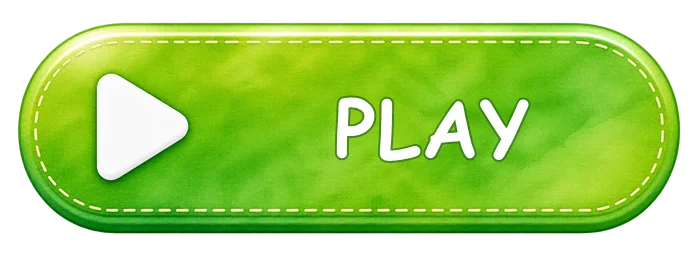
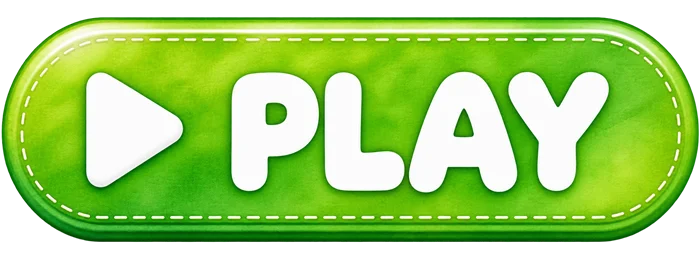
Titulos e botoes com a escrita na propria arte; nivel em cartoes; PLAY novo

diff --git a/dados.js b/dados.js
@@ -148,4 +148,4 @@ window.LISTAS = {
     {imagem: 'img/milho.webp', som: 'corn', palavra: 'corn'},
   ],
 };
-window.IMAGENS = {'abacate': 'img/abacate.webp', 'abacaxi': 'img/abacaxi.webp', 'abelha': 'img/abelha.webp', 'alaranjado': 'img/alaranjado.webp', 'alfabeto': 'img/alfabeto.webp', 'alimentos': 'img/alimentos.webp', 'amarelo': 'img/amarelo.webp', 'animais': 'img/animais.webp', 'aranha': 'img/aranha.webp', 'arroz': 'img/arroz.webp', 'azul': 'img/azul.webp', 'back': 'img/back.webp', 'banana': 'img/banana.webp', 'biscoito': 'img/biscoito.webp', 'boca': 'img/boca.webp', 'bolo': 'img/bolo.webp', 'borboleta': 'img/borboleta.webp', 'braco': 'img/braco.webp', 'branco': 'img/branco.webp', 'cachorro': 'img/cachorro.webp', 'cavalo': 'img/cavalo.webp', 'cenoura': 'img/cenoura.webp', 'cereja': 'img/cereja.webp', 'cinco': 'img/cinco.webp', 'cinza': 'img/cinza.webp', 'circulo': 'img/circulo.webp', 'cobra': 'img/cobra.webp', 'coco': 'img/coco.webp', 'coracao': 'img/coracao.webp', 'cores': 'img/cores.webp', 'corpo': 'img/corpo.webp', 'coruja': 'img/coruja.webp', 'dedo': 'img/dedo.webp', 'dente': 'img/dente.webp', 'desoito': 'img/desoito.webp', 'dez': 'img/dez.webp', 'dezenove': 'img/dezenove.webp', 'dezesete': 'img/dezesete.webp', 'dezesseis': 'img/dezesseis.webp', 'dois': 'img/dois.webp', 'doze': 'img/doze.webp', 'elefante': 'img/elefante.webp', 'engrenagem': 'img/engrenagem.webp', 'estrela': 'img/estrela.webp', 'estrela_placar': 'img/estrela_placar.webp', 'estrela_vazia': 'img/estrela_vazia.webp', 'fechar': 'img/fechar.webp', 'food': 'img/food.webp', 'formas': 'img/formas.webp', 'fundo': 'img/fundo.webp', 'fundo_inicio': 'img/fundo_inicio.webp', 'fundoanimal': 'img/fundoanimal.webp', 'fundocores': 'img/fundocores.webp', 'fundofood': 'img/fundofood.webp', 'fundoformas': 'img/fundoformas.webp', 'fundoletras': 'img/fundoletras.webp', 'fundonumero': 'img/fundonumero.webp', 'fundos_floresta': 'img/fundos_floresta.webp', 'galinha': 'img/galinha.webp', 'gato': 'img/gato.webp', 'girafa': 'img/girafa.webp', 'golfinho': 'img/golfinho.webp', 'grilo': 'img/grilo.webp', 'hamburguer': 'img/hamburguer.webp', 'hexagono': 'img/hexagono.webp', 'hipopotamo': 'img/hipopotamo.webp', 'icone_jogador': 'img/icone_jogador.webp', 'kiwi': 'img/kiwi.webp', 'laranja': 'img/laranja.webp', 'leao': 'img/leao.webp', 'letra_a': 'img/letra_a.webp', 'letra_b': 'img/letra_b.webp', 'letra_c': 'img/letra_c.webp', 'letra_d': 'img/letra_d.webp', 'letra_e': 'img/letra_e.webp', 'letra_f': 'img/letra_f.webp', 'letra_g': 'img/letra_g.webp', 'letra_h': 'img/letra_h.webp', 'letra_i': 'img/letra_i.webp', 'letra_j': 'img/letra_j.webp', 'letra_k': 'img/letra_k.webp', 'letra_l': 'img/letra_l.webp', 'letra_m': 'img/letra_m.webp', 'letra_n': 'img/letra_n.webp', 'letra_o': 'img/letra_o.webp', 'letra_p': 'img/letra_p.webp', 'letra_q': 'img/letra_q.webp', 'letra_r': 'img/letra_r.webp', 'letra_s': 'img/letra_s.webp', 'letra_t': 'img/letra_t.webp', 'letra_u': 'img/letra_u.webp', 'letra_v_': 'img/letra_v_.webp', 'letra_w': 'img/letra_w.webp', 'letra_x': 'img/letra_x.webp', 'letra_y': 'img/letra_y.webp', 'letra_z': 'img/letra_z.webp', 'limao': 'img/limao.webp', 'logo': 'img/logo.webp', 'losango': 'img/losango.webp', 'maca': 'img/maca.webp', 'macaco': 'img/macaco.webp', 'manga': 'img/manga.webp', 'mao': 'img/mao.webp', 'marrom': 'img/marrom.webp', 'medalha_bronze': 'img/medalha_bronze.webp', 'medalha_ouro': 'img/medalha_ouro.webp', 'medalha_prata': 'img/medalha_prata.webp', 'melancia': 'img/melancia.webp', 'milho': 'img/milho.webp', 'morango': 'img/morango.webp', 'nariz': 'img/nariz.webp', 'next': 'img/next.webp', 'nove': 'img/nove.webp', 'numeros': 'img/numeros.webp', 'nuvem_titulo': 'img/nuvem_titulo.webp', 'oito': 'img/oito.webp', 'olho': 'img/olho.webp', 'onze': 'img/onze.webp', 'orelha': 'img/orelha.webp', 'oval': 'img/oval.webp', 'ovelha': 'img/ovelha.webp', 'ovo': 'img/ovo.webp', 'pao': 'img/pao.webp', 'pato': 'img/pato.webp', 'pe': 'img/pe.webp', 'pentagono': 'img/pentagono.webp', 'pera': 'img/pera.webp', 'perna': 'img/perna.webp', 'pessego': 'img/pessego.webp', 'pinguim': 'img/pinguim.webp', 'pink': 'img/pink.webp', 'pizza': 'img/pizza.webp', 'play': 'img/play.webp', 'preto': 'img/preto.webp', 'quadrado': 'img/quadrado.webp', 'quatorze': 'img/quatorze.webp', 'quatro': 'img/quatro.webp', 'queijo': 'img/queijo.webp', 'quinze': 'img/quinze.webp', 'retangulo': 'img/retangulo.webp', 'rosto': 'img/rosto.webp', 'roxo': 'img/roxo.webp', 'sapo': 'img/sapo.webp', 'seis': 'img/seis.webp', 'seta_repetir': 'img/seta_repetir.webp', 'sete': 'img/sete.webp', 'som': 'img/som.webp', 'sorvete': 'img/sorvete.webp', 'suco': 'img/suco.webp', 'tomate': 'img/tomate.webp', 'trapezio': 'img/trapezio.webp', 'tres': 'img/tres.webp', 'treze': 'img/treze.webp', 'triangulo': 'img/triangulo.webp', 'trofeu': 'img/trofeu.webp', 'tubarao': 'img/tubarao.webp', 'um': 'img/um.webp', 'uva': 'img/uva.webp', 'vaca': 'img/vaca.webp', 'verde': 'img/verde.webp', 'vermelho': 'img/vermelho.webp', 'vinte': 'img/vinte.webp', 'welcome': 'img/welcome.webp', 'zebra': 'img/zebra.webp', };
+window.IMAGENS = {'abacate': 'img/abacate.webp', 'abacaxi': 'img/abacaxi.webp', 'abelha': 'img/abelha.webp', 'alaranjado': 'img/alaranjado.webp', 'alfabeto': 'img/alfabeto.webp', 'alimentos': 'img/alimentos.webp', 'amarelo': 'img/amarelo.webp', 'animais': 'img/animais.webp', 'aranha': 'img/aranha.webp', 'arroz': 'img/arroz.webp', 'azul': 'img/azul.webp', 'back': 'img/back.webp', 'banana': 'img/banana.webp', 'biscoito': 'img/biscoito.webp', 'boca': 'img/boca.webp', 'bolo': 'img/bolo.webp', 'borboleta': 'img/borboleta.webp', 'botao_cancelar': 'img/botao_cancelar.webp', 'botao_novo_jogador': 'img/botao_novo_jogador.webp', 'botao_ok': 'img/botao_ok.webp', 'botao_remover': 'img/botao_remover.webp', 'botao_zerar': 'img/botao_zerar.webp', 'braco': 'img/braco.webp', 'branco': 'img/branco.webp', 'cachorro': 'img/cachorro.webp', 'cavalo': 'img/cavalo.webp', 'cenoura': 'img/cenoura.webp', 'cereja': 'img/cereja.webp', 'cinco': 'img/cinco.webp', 'cinza': 'img/cinza.webp', 'circulo': 'img/circulo.webp', 'cobra': 'img/cobra.webp', 'coco': 'img/coco.webp', 'coracao': 'img/coracao.webp', 'cores': 'img/cores.webp', 'corpo': 'img/corpo.webp', 'coruja': 'img/coruja.webp', 'dedo': 'img/dedo.webp', 'dente': 'img/dente.webp', 'desoito': 'img/desoito.webp', 'dez': 'img/dez.webp', 'dezenove': 'img/dezenove.webp', 'dezesete': 'img/dezesete.webp', 'dezesseis': 'img/dezesseis.webp', 'dois': 'img/dois.webp', 'doze': 'img/doze.webp', 'elefante': 'img/elefante.webp', 'engrenagem': 'img/engrenagem.webp', 'estrela': 'img/estrela.webp', 'estrela_placar': 'img/estrela_placar.webp', 'estrela_vazia': 'img/estrela_vazia.webp', 'fechar': 'img/fechar.webp', 'food': 'img/food.webp', 'formas': 'img/formas.webp', 'fundo': 'img/fundo.webp', 'fundo_inicio': 'img/fundo_inicio.webp', 'fundoanimal': 'img/fundoanimal.webp', 'fundocores': 'img/fundocores.webp', 'fundofood': 'img/fundofood.webp', 'fundoformas': 'img/fundoformas.webp', 'fundoletras': 'img/fundoletras.webp', 'fundonumero': 'img/fundonumero.webp', 'fundos_floresta': 'img/fundos_floresta.webp', 'galinha': 'img/galinha.webp', 'gato': 'img/gato.webp', 'girafa': 'img/girafa.webp', 'golfinho': 'img/golfinho.webp', 'grilo': 'img/grilo.webp', 'hamburguer': 'img/hamburguer.webp', 'hexagono': 'img/hexagono.webp', 'hipopotamo': 'img/hipopotamo.webp', 'icone_jogador': 'img/icone_jogador.webp', 'kiwi': 'img/kiwi.webp', 'laranja': 'img/laranja.webp', 'leao': 'img/leao.webp', 'letra_a': 'img/letra_a.webp', 'letra_b': 'img/letra_b.webp', 'letra_c': 'img/letra_c.webp', 'letra_d': 'img/letra_d.webp', 'letra_e': 'img/letra_e.webp', 'letra_f': 'img/letra_f.webp', 'letra_g': 'img/letra_g.webp', 'letra_h': 'img/letra_h.webp', 'letra_i': 'img/letra_i.webp', 'letra_j': 'img/letra_j.webp', 'letra_k': 'img/letra_k.webp', 'letra_l': 'img/letra_l.webp', 'letra_m': 'img/letra_m.webp', 'letra_n': 'img/letra_n.webp', 'letra_o': 'img/letra_o.webp', 'letra_p': 'img/letra_p.webp', 'letra_q': 'img/letra_q.webp', 'letra_r': 'img/letra_r.webp', 'letra_s': 'img/letra_s.webp', 'letra_t': 'img/letra_t.webp', 'letra_u': 'img/letra_u.webp', 'letra_v_': 'img/letra_v_.webp', 'letra_w': 'img/letra_w.webp', 'letra_x': 'img/letra_x.webp', 'letra_y': 'img/letra_y.webp', 'letra_z': 'img/letra_z.webp', 'limao': 'img/limao.webp', 'logo': 'img/logo.webp', 'losango': 'img/losango.webp', 'maca': 'img/maca.webp', 'macaco': 'img/macaco.webp', 'manga': 'img/manga.webp', 'mao': 'img/mao.webp', 'marrom': 'img/marrom.webp', 'medalha_bronze': 'img/medalha_bronze.webp', 'medalha_ouro': 'img/medalha_ouro.webp', 'medalha_prata': 'img/medalha_prata.webp', 'melancia': 'img/melancia.webp', 'milho': 'img/milho.webp', 'morango': 'img/morango.webp', 'nariz': 'img/nariz.webp', 'next': 'img/next.webp', 'nivel_easy': 'img/nivel_easy.webp', 'nivel_hard': 'img/nivel_hard.webp', 'nivel_medium': 'img/nivel_medium.webp', 'nove': 'img/nove.webp', 'numeros': 'img/numeros.webp', 'nuvem_titulo': 'img/nuvem_titulo.webp', 'oito': 'img/oito.webp', 'olho': 'img/olho.webp', 'onze': 'img/onze.webp', 'orelha': 'img/orelha.webp', 'oval': 'img/oval.webp', 'ovelha': 'img/ovelha.webp', 'ovo': 'img/ovo.webp', 'pao': 'img/pao.webp', 'pato': 'img/pato.webp', 'pe': 'img/pe.webp', 'pentagono': 'img/pentagono.webp', 'pera': 'img/pera.webp', 'perna': 'img/perna.webp', 'pessego': 'img/pessego.webp', 'pinguim': 'img/pinguim.webp', 'pink': 'img/pink.webp', 'pizza': 'img/pizza.webp', 'play': 'img/play.webp', 'preto': 'img/preto.webp', 'quadrado': 'img/quadrado.webp', 'quatorze': 'img/quatorze.webp', 'quatro': 'img/quatro.webp', 'queijo': 'img/queijo.webp', 'quinze': 'img/quinze.webp', 'retangulo': 'img/retangulo.webp', 'rosto': 'img/rosto.webp', 'roxo': 'img/roxo.webp', 'sapo': 'img/sapo.webp', 'seis': 'img/seis.webp', 'seta_repetir': 'img/seta_repetir.webp', 'sete': 'img/sete.webp', 'som': 'img/som.webp', 'sorvete': 'img/sorvete.webp', 'suco': 'img/suco.webp', 'titulo_area_dos_pais': 'img/titulo_area_dos_pais.webp', 'titulo_escolha_atividade': 'img/titulo_escolha_atividade.webp', 'titulo_novo_jogador': 'img/titulo_novo_jogador.webp', 'titulo_quem_vai_jogar': 'img/titulo_quem_vai_jogar.webp', 'titulo_ranking': 'img/titulo_ranking.webp', 'titulo_zerar': 'img/titulo_zerar.webp', 'tomate': 'img/tomate.webp', 'trapezio': 'img/trapezio.webp', 'tres': 'img/tres.webp', 'treze': 'img/treze.webp', 'triangulo': 'img/triangulo.webp', 'trofeu': 'img/trofeu.webp', 'tubarao': 'img/tubarao.webp', 'um': 'img/um.webp', 'uva': 'img/uva.webp', 'vaca': 'img/vaca.webp', 'verde': 'img/verde.webp', 'vermelho': 'img/vermelho.webp', 'vinte': 'img/vinte.webp', 'welcome': 'img/welcome.webp', 'zebra': 'img/zebra.webp', };

diff --git a/app.js b/app.js
@@ -20,9 +20,9 @@
 
   // Nivel.java
   var NIVEIS = [
-    {id: 'FACIL', nome: 'Easy', figuras: 2, primeira: 5, segunda: 0, cor: '#43A047'},
-    {id: 'MEDIO', nome: 'Medium', figuras: 4, primeira: 10, segunda: 5, cor: '#FB8C00'},
-    {id: 'DIFICIL', nome: 'Hard', figuras: 8, primeira: 15, segunda: 10, cor: '#E53935'}
+    {id: 'FACIL', nome: 'Easy', arte: 'nivel_easy', figuras: 2, primeira: 5, segunda: 0, cor: '#43A047'},
+    {id: 'MEDIO', nome: 'Medium', arte: 'nivel_medium', figuras: 4, primeira: 10, segunda: 5, cor: '#FB8C00'},
+    {id: 'DIFICIL', nome: 'Hard', arte: 'nivel_hard', figuras: 8, primeira: 15, segunda: 10, cor: '#E53935'}
   ];
 
   var PERGUNTAS_POR_PARTIDA = 10;
@@ -406,9 +406,14 @@
   function dialogo(opcoes) {
     return new Promise(function (resolver) {
       var fundo = $('dialogo'), campo = $('dialogoCampo');
-      $('dialogoTitulo').textContent = opcoes.titulo || '';
+      // titulo e botao OK sao artes com a escrita (opcoes.tituloArte, opcoes.okArte); texto so se nao houver arte
+      var tituloImg = $('dialogoTituloImg');
+      tituloImg.hidden = !opcoes.tituloArte;
+      if (opcoes.tituloArte) { tituloImg.src = imagem(opcoes.tituloArte); tituloImg.alt = opcoes.titulo || ''; }
+      $('dialogoTitulo').textContent = opcoes.tituloArte ? '' : (opcoes.titulo || '');
       $('dialogoTexto').textContent = opcoes.texto || '';
-      $('dialogoOk').textContent = opcoes.ok || 'OK';
+      $('dialogoOkImg').src = imagem(opcoes.okArte || 'botao_ok');
+      $('dialogoOk').setAttribute('aria-label', opcoes.ok || 'OK');
       campo.style.display = opcoes.campo ? '' : 'none';
       campo.value = '';
       campo.placeholder = (opcoes.campo && opcoes.campo.dica) || '';
@@ -477,7 +482,8 @@
 
   aoMostrar.inicio = function () {
     var j = Jogadores.atual();
-    $('txtJogador').textContent = j ? 'Jogador: ' + j : 'Quem vai jogar?';
+    // a nuvem "Quem vai jogar?" e arte; o nome do jogador escolhido aparece numa plaquinha embaixo
+    $('txtJogador').textContent = j || '';
   };
 
   $('btnPlay').addEventListener('click', function () {
@@ -491,7 +497,7 @@
   // engrenagem: uma continha antes da area dos pais
   $('btnPais').addEventListener('click', function () {
     var a = 3 + Math.floor(Math.random() * 7), b = 3 + Math.floor(Math.random() * 7);
-    dialogo({titulo: 'Área dos pais', texto: 'Quanto é ' + a + ' + ' + b + '?', campo: {numero: true, dica: '?', max: 3}})
+    dialogo({titulo: 'Área dos pais', tituloArte: 'titulo_area_dos_pais', texto: 'Quanto é ' + a + ' + ' + b + '?', campo: {numero: true, dica: '?', max: 3}})
       .then(function (resposta) {
         if (resposta === null) return;
         if (String(a + b) === resposta.trim()) mostrar('pais');
@@ -606,10 +612,10 @@
       caixa.textContent = '';
       NIVEIS.forEach(function (n) {
         var b = el('button', 'botao-nivel' + (n === preferido ? ' preferido' : ''), [
-          el('span', 'nome', [n.nome]),
-          el('span', 'info', [n.figuras + ' figuras\n1ª: ' + n.primeira + ' pts · 2ª: ' + n.segunda + ' pts'])
+          img(imagem(n.arte), 'arte'),
+          el('span', 'info', [n.figuras + ' figuras\n1ª ' + n.primeira + ' · 2ª ' + n.segunda + ' pts'])
         ]);
-        b.style.background = n.cor;
+        b.setAttribute('aria-label', n.nome);
         b.addEventListener('click', function () {
           Sons.tocar('play');
           Jogadores.salvarNivel(self.jogador, n);
@@ -869,7 +875,7 @@
   }
 
   function novoJogador() {
-    dialogo({titulo: '+ Novo jogador', campo: {dica: 'Nome do jogador', max: TAMANHO_MAXIMO_NOME}}).then(function (nome) {
+    dialogo({titulo: '+ Novo jogador', tituloArte: 'titulo_novo_jogador', campo: {dica: 'Nome do jogador', max: TAMANHO_MAXIMO_NOME}}).then(function (nome) {
       if (nome === null) return;
       var limpo = Jogadores.adicionar(nome);
       if (!limpo) {
@@ -881,7 +887,7 @@
   }
 
   function confirmarRemocao(nome) {
-    dialogo({texto: 'Remover ' + nome + '? Os recordes dele continuam no ranking.', ok: 'Remover'}).then(function (sim) {
+    dialogo({texto: 'Remover ' + nome + '? Os recordes dele continuam no ranking.', ok: 'Remover', okArte: 'botao_remover'}).then(function (sim) {
       if (!sim) return;
       Jogadores.remover(nome);
       listarJogadores();
@@ -979,7 +985,7 @@
   $('somLigado').addEventListener('change', function () { Sons.setLigado(this.checked); });
 
   $('zerar').addEventListener('click', function () {
-    dialogo({titulo: 'Zerar progresso', texto: 'Apagar recordes, partidas e erros de todas as categorias?', ok: 'Zerar'})
+    dialogo({titulo: 'Zerar progresso', tituloArte: 'titulo_zerar', texto: 'Apagar recordes, partidas e erros de todas as categorias?', ok: 'Zerar', okArte: 'botao_zerar'})
       .then(function (sim) {
         if (!sim) return;
         Pontuacao.zerarTudo();

diff --git a/index.html b/index.html
@@ -23,7 +23,8 @@
   <!-- cenario das criancas com a placa (fundo_inicio); em pe ele fica sobre o campo (fundos_floresta) -->
   <img class="fundo inicio-campo" src="img/fundos_floresta.webp" alt="">
   <img class="fundo inicio-cena" src="img/fundo_inicio.webp" alt="Welcome to Help Kids">
-  <button id="btnJogador" class="nuvem nuvem-inicio"><span id="txtJogador"></span></button>
+  <button id="btnJogador" class="titulo-inicio" aria-label="Quem vai jogar?"><img src="img/titulo_quem_vai_jogar.webp" alt=""></button>
+  <span id="txtJogador" class="etiqueta-jogador"></span>
   <button id="btnPais" class="botao-redondo engrenagem" aria-label="Área dos pais"><img src="img/engrenagem.webp" alt=""></button>
   <button id="btnPlay" class="botao-img play-inicio" aria-label="Play"><img src="img/play.webp" alt=""></button>
 </section>
@@ -34,7 +35,7 @@
   <div class="conteudo">
     <div class="topo">
       <img class="logo" src="img/logo.webp" alt="HelpKids">
-      <div class="nuvem nuvem-titulo marrom"><span>Escolha uma atividade</span></div>
+      <h1 class="titulo"><img src="img/titulo_escolha_atividade.webp" alt="Escolha uma atividade"></h1>
       <span class="topo-lado"></span>
     </div>
     <div class="rolagem"><div id="gradeMenu" class="grade-menu"></div></div>
@@ -134,12 +135,12 @@
   <div class="conteudo">
     <div class="topo">
       <img class="logo" src="img/logo.webp" alt="HelpKids">
-      <h1 class="nuvem nuvem-titulo"><span>Quem vai jogar?</span></h1>
+      <h1 class="titulo"><img src="img/titulo_quem_vai_jogar.webp" alt="Quem vai jogar?"></h1>
       <span class="topo-lado"><button id="jogadoresVoltar" class="botao-img nav" aria-label="Voltar"><img src="img/back.webp" alt=""></button></span>
     </div>
     <div class="rolagem">
       <div id="listaJogadores" class="grade-jogadores"></div>
-      <button id="novoJogador" class="botao-pilula novo-jogador">+ Novo jogador</button>
+      <button id="novoJogador" class="botao-arte novo-jogador" aria-label="+ Novo jogador"><img src="img/botao_novo_jogador.webp" alt=""></button>
       <p class="dica">Toque no nome para jogar · toque e segure para remover</p>
     </div>
   </div>
@@ -151,7 +152,7 @@
   <div class="conteudo">
     <div class="topo">
       <img class="logo" src="img/logo.webp" alt="HelpKids">
-      <h1 class="nuvem nuvem-titulo"><span>Ranking</span></h1>
+      <h1 class="titulo"><img src="img/titulo_ranking.webp" alt="Ranking"></h1>
       <span class="topo-lado"><button id="rankingVoltar" class="botao-img nav" aria-label="Voltar"><img src="img/back.webp" alt=""></button></span>
     </div>
     <div id="filtrosRanking" class="filtros"></div>
@@ -163,7 +164,7 @@
 <section id="pais" class="tela tela-clara">
   <div class="conteudo">
     <div class="cabecalho">
-      <h1 class="titulo-tela escuro">Área dos pais</h1>
+      <h1 class="titulo titulo-pais"><img src="img/titulo_area_dos_pais.webp" alt="Área dos pais"></h1>
       <button class="botao-img nav voltar" data-volta="inicio" aria-label="Voltar"><img src="img/back.webp" alt=""></button>
     </div>
     <div class="rolagem">
@@ -186,12 +187,13 @@
   <form id="dialogoCaixa" class="dialogo" method="dialog">
     <img class="dialogo-estrela" src="img/estrela_placar.webp" alt="">
     <button type="button" id="dialogoFechar" class="dialogo-fechar" aria-label="Fechar"><img src="img/fechar.webp" alt=""></button>
+    <img id="dialogoTituloImg" class="dialogo-titulo-img" alt="">
     <div id="dialogoTitulo" class="dialogo-titulo"></div>
     <div id="dialogoTexto" class="dialogo-texto"></div>
     <input id="dialogoCampo" class="dialogo-campo" autocomplete="off">
     <div class="dialogo-botoes">
-      <button type="button" id="dialogoCancelar" class="botao-pilula">Cancelar</button>
-      <button type="submit" id="dialogoOk" class="botao-pilula verde">OK</button>
+      <button type="button" id="dialogoCancelar" class="botao-arte" aria-label="Cancelar"><img src="img/botao_cancelar.webp" alt=""></button>
+      <button type="submit" id="dialogoOk" class="botao-arte" aria-label="OK"><img id="dialogoOkImg" src="img/botao_ok.webp" alt=""></button>
     </div>
   </form>
 </div>

diff --git a/app.css b/app.css
@@ -684,3 +684,72 @@ img { -webkit-user-drag: none; }
   .topo { grid-template-columns: auto 1fr auto; gap: 8px; }
   .topo .nuvem-titulo { width: 100%; justify-self: center; max-width: 420px; }
 }
+
+/* ---------- artes com a escrita pronta (titulos, botoes, niveis) ---------- */
+.titulo { margin: 0; line-height: 0; justify-self: center; }
+.titulo img { height: clamp(52px, 12vh, 124px); width: auto; max-width: 52vw; pointer-events: none; }
+.titulo-pais img { height: clamp(48px, 9vh, 96px); }
+.cabecalho .titulo { flex: 1; text-align: left; }
+
+.titulo-inicio {
+  position: absolute;
+  top: calc(var(--margem) * .6 + var(--topo));
+  left: 50%;
+  transform: translateX(-50%);
+  width: min(44vw, 560px);
+}
+.titulo-inicio img, .botao-arte img { display: block; width: 100%; height: auto; pointer-events: none; }
+.titulo-inicio:active { transform: translateX(-50%) scale(.95); }
+/* nome do jogador escolhido, numa plaquinha embaixo da nuvem */
+.etiqueta-jogador {
+  position: absolute;
+  top: calc(var(--margem) * .6 + var(--topo) + min(44vw, 560px) * 260 / 900);
+  left: 50%;
+  transform: translateX(-50%);
+  padding: 2px 18px;
+  border-radius: 999px;
+  background: #FFF4DE;
+  border: 2px dashed #E3B77B;
+  color: #1F4E96;
+  font-size: clamp(16px, 2.4vw, 28px);
+  font-weight: 800;
+  white-space: nowrap;
+  pointer-events: none;
+}
+.etiqueta-jogador:empty { display: none; }
+@media (orientation: portrait) {
+  .titulo-inicio { top: calc(var(--margem) + var(--topo) + var(--redondo) * 1.35 + 6px); width: min(80vw, 520px); }
+  .etiqueta-jogador { top: calc(var(--margem) + var(--topo) + var(--redondo) * 1.35 + 6px + min(80vw, 520px) * 260 / 900); font-size: clamp(16px, 5vw, 26px); }
+  .titulo img { max-width: 60vw; height: auto; max-height: 90px; }
+}
+
+.botao-arte { display: inline-block; flex-shrink: 0; }
+.botao-arte:active { transform: scale(.95); }
+.novo-jogador { display: block; width: clamp(200px, 26vw, 300px); margin: 14px auto 0; }
+.dialogo-botoes .botao-arte { width: clamp(120px, 34%, 170px); }
+.dialogo-titulo-img { display: block; width: min(80%, 380px); margin: 0 auto; pointer-events: none; }
+.dialogo-titulo-img[hidden] { display: none; }
+
+/* nivel: o cartao (Easy, Medium, Hard) e arte; embaixo do nome, o app escreve figuras e pontos */
+.botao-nivel { position: relative; padding: 0; background: none; opacity: .85; }
+.botao-nivel .arte { display: block; width: 100%; height: auto; pointer-events: none; }
+.botao-nivel .info {
+  position: absolute;
+  left: 8%;
+  right: 8%;
+  top: 44%;
+  margin: 0;
+  color: #4E342E;
+  font-weight: 800;
+  text-shadow: 0 1px 2px rgba(255, 255, 255, .8);
+}
+.botao-nivel.preferido { box-shadow: none; filter: drop-shadow(0 0 6px rgba(255, 255, 255, .9)); }
+.botao-nivel .info { font-size: calc(var(--nivel-info) * .82); line-height: 1.25; }
+/* deitado: o nome do jogador fica a direita da nuvem (embaixo dela fica a estrela da placa) */
+@media (orientation: landscape) {
+  .etiqueta-jogador {
+    top: calc(var(--margem) * .6 + var(--topo) + min(44vw, 560px) * 130 / 900);
+    left: calc(50% + min(44vw, 560px) / 2 + 8px);
+    transform: translateY(-50%);
+  }
+}

diff --git a/sw.js b/sw.js
@@ -1,7 +1,7 @@
 // Guarda todos os arquivos do HelpKids no aparelho, para funcionar sem internet.
 // A versao e a lista de arquivos sao preenchidas por ferramentas/MontarWeb.java; quando qualquer
 // arquivo muda, a versao muda e o aparelho baixa tudo de novo na proxima vez que abrir com internet.
-var VERSAO = '3fdd9e2b50d6';
+var VERSAO = 'a2a220f79638';
 var ARQUIVOS = [
   './',
   './app.css',
@@ -30,6 +30,11 @@ var ARQUIVOS = [
   './img/boca.webp',
   './img/bolo.webp',
   './img/borboleta.webp',
+  './img/botao_cancelar.webp',
+  './img/botao_novo_jogador.webp',
+  './img/botao_ok.webp',
+  './img/botao_remover.webp',
+  './img/botao_zerar.webp',
   './img/braco.webp',
   './img/branco.webp',
   './img/cachorro.webp',
@@ -125,6 +130,9 @@ var ARQUIVOS = [
   './img/morango.webp',
   './img/nariz.webp',
   './img/next.webp',
+  './img/nivel_easy.webp',
+  './img/nivel_hard.webp',
+  './img/nivel_medium.webp',
   './img/nove.webp',
   './img/numeros.webp',
   './img/nuvem_titulo.webp',
@@ -162,6 +170,12 @@ var ARQUIVOS = [
   './img/som.webp',
   './img/sorvete.webp',
   './img/suco.webp',
+  './img/titulo_area_dos_pais.webp',
+  './img/titulo_escolha_atividade.webp',
+  './img/titulo_novo_jogador.webp',
+  './img/titulo_quem_vai_jogar.webp',
+  './img/titulo_ranking.webp',
+  './img/titulo_zerar.webp',
   './img/tomate.webp',
   './img/trapezio.webp',
   './img/tres.webp',
